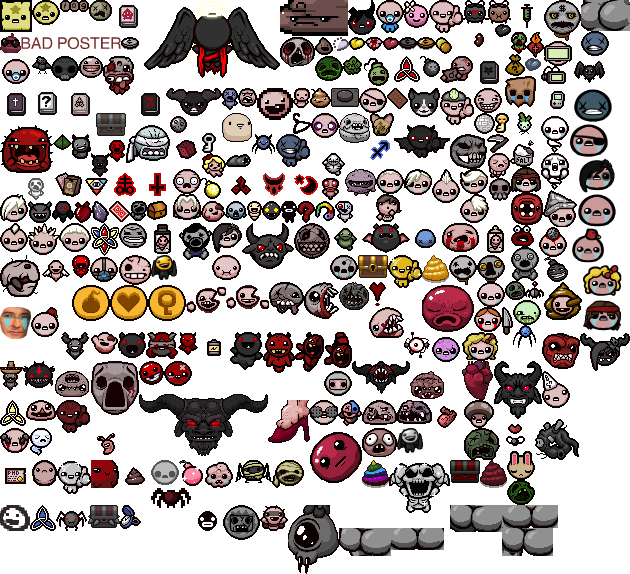
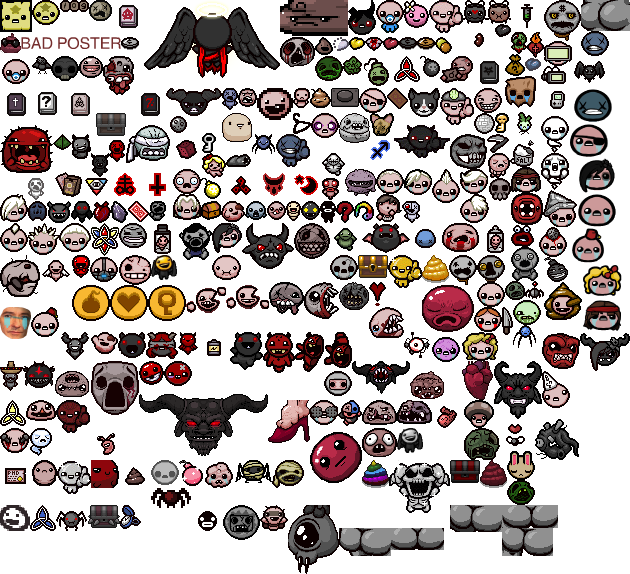
add lil monstro and hushy

Changed region(s): [[0.3016, 0.3258, 0.6032, 0.385], [0.0302, 0.3554, 0.2714, 0.385], [0.6333, 0.3258, 0.6635, 0.385]]

diff --git a/flair.css b/flair.css
@@ -766,6 +766,12 @@
     background-position: -489px -178px;
 }
 
+.flair-hushy {
+    width: 19px;
+    height: 20px;
+    background-position: -28px -201px;
+}
+
 .flair-husk {
     width: 30px;
     height: 28px;
@@ -775,13 +781,13 @@
 .flair-imp {
     width: 24px;
     height: 22px;
-    background-position: -28px -201px;
+    background-position: -47px -201px;
 }
 
 .flair-incubus {
     width: 22px;
     height: 22px;
-    background-position: -52px -201px;
+    background-position: -71px -201px;
 }
 
 .flair-isaac {
@@ -793,7 +799,7 @@
 .flair-isaacsheart {
     width: 18px;
     height: 22px;
-    background-position: -74px -201px;
+    background-position: -93px -201px;
 }
 
 .flair-itlives {
@@ -805,13 +811,13 @@
 .flair-jera {
     width: 17px;
     height: 22px;
-    background-position: -92px -201px;
+    background-position: -111px -201px;
 }
 
 .flair-joker {
     width: 21px;
     height: 21px;
-    background-position: -109px -201px;
+    background-position: -128px -201px;
 }
 
 .flair-joncusack {
@@ -835,7 +841,7 @@
 .flair-keybum {
     width: 17px;
     height: 20px;
-    background-position: -130px -201px;
+    background-position: -149px -201px;
 }
 
 .flair-larryjr {
@@ -865,13 +871,13 @@
 .flair-lilchest {
     width: 20px;
     height: 19px;
-    background-position: -147px -201px;
+    background-position: -201px -201px;
 }
 
 .flair-lilgurd {
     width: 24px;
     height: 21px;
-    background-position: -201px -201px;
+    background-position: -221px -201px;
 }
 
 .flair-lilgurd2 {
@@ -883,7 +889,7 @@
 .flair-lilhaunt {
     width: 22px;
     height: 19px;
-    background-position: -225px -201px;
+    background-position: -245px -201px;
 }
 
 .flair-lilhorn {
@@ -904,6 +910,12 @@
     background-position: -178px -332px;
 }
 
+.flair-lilmonstro {
+    width: 19px;
+    height: 19px;
+    background-position: -267px -201px;
+}
+
 .flair-littlebattery {
     width: 32px;
     height: 32px;
@@ -919,13 +931,13 @@
 .flair-littlechubby {
     width: 15px;
     height: 20px;
-    background-position: -247px -201px;
+    background-position: -286px -201px;
 }
 
 .flair-littlegish {
     width: 19px;
     height: 19px;
-    background-position: -262px -201px;
+    background-position: -301px -201px;
 }
 
 .flair-littlehorn {
@@ -937,7 +949,7 @@
 .flair-littlesteve {
     width: 16px;
     height: 22px;
-    background-position: -281px -201px;
+    background-position: -320px -201px;
 }
 
 .flair-loki {
@@ -1207,7 +1219,7 @@
 .flair-questionmark {
     width: 18px;
     height: 22px;
-    background-position: -297px -201px;
+    background-position: -336px -201px;
 }
 
 .flair-ragling {
@@ -1231,7 +1243,7 @@
 .flair-rainbowworm {
     width: 20px;
     height: 20px;
-    background-position: -315px -201px;
+    background-position: -354px -201px;
 }
 
 .flair-realplatinumgod {
@@ -1255,7 +1267,7 @@
 .flair-robobaby {
     width: 18px;
     height: 22px;
-    background-position: -335px -201px;
+    background-position: -402px -201px;
 }
 
 .flair-roidrage {
